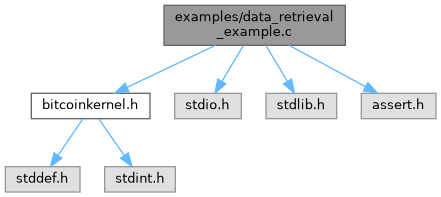
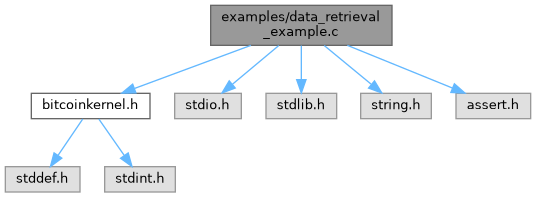
Update examples

diff --git a/docs/examples.html b/docs/examples.html
@@ -268,7 +268,7 @@ $(function() {
 <div class="ttc" id="abitcoinkernel_8h_html_ae863bcc97139e9ba3e406c7c0ea12d0f"><div class="ttname"><a href="bitcoinkernel_8h.html#ae863bcc97139e9ba3e406c7c0ea12d0f">btck_context_destroy</a></div><div class="ttdeci">BITCOINKERNEL_API void btck_context_destroy(btck_Context *context)</div></div>
 <div class="ttc" id="abitcoinkernel_8h_html_aea118037a38dcd6e6b26327fd26a2c63"><div class="ttname"><a href="bitcoinkernel_8h.html#aea118037a38dcd6e6b26327fd26a2c63">btck_context_options_create</a></div><div class="ttdeci">BITCOINKERNEL_API btck_ContextOptions * btck_context_options_create()</div></div>
 <div class="ttc" id="abitcoinkernel_8h_html_af9ba3636c27ad34471fbaaa9f3460e09"><div class="ttname"><a href="bitcoinkernel_8h.html#af9ba3636c27ad34471fbaaa9f3460e09">btck_chain_parameters_create</a></div><div class="ttdeci">BITCOINKERNEL_API btck_ChainParameters * btck_chain_parameters_create(const btck_ChainType chain_type)</div><div class="ttdoc">Creates a chain parameters struct with default parameters based on the passed in chain type.</div></div>
-<div class="ttc" id="adata__retrieval__example_8c_html_a31425dca2f328c215ff960feeff6a496"><div class="ttname"><a href="data__retrieval__example_8c.html#a31425dca2f328c215ff960feeff6a496">handle_error</a></div><div class="ttdeci">void handle_error(void *_, const char *msg, size_t msg_size)</div><div class="ttdef"><b>Definition</b> data_retrieval_example.c:7</div></div>
+<div class="ttc" id="adata__retrieval__example_8c_html_a31425dca2f328c215ff960feeff6a496"><div class="ttname"><a href="data__retrieval__example_8c.html#a31425dca2f328c215ff960feeff6a496">handle_error</a></div><div class="ttdeci">void handle_error(void *_, const char *msg, size_t msg_size)</div><div class="ttdef"><b>Definition</b> data_retrieval_example.c:8</div></div>
 <div class="ttc" id="astructbtck__NotificationInterfaceCallbacks_html"><div class="ttname"><a href="structbtck__NotificationInterfaceCallbacks.html">btck_NotificationInterfaceCallbacks</a></div><div class="ttdef"><b>Definition</b> bitcoinkernel.h:378</div></div>
 <div class="ttc" id="astructbtck__NotificationInterfaceCallbacks_html_aae99053f8b21c9bb8df041ed787d1ea1"><div class="ttname"><a href="structbtck__NotificationInterfaceCallbacks.html#aae99053f8b21c9bb8df041ed787d1ea1">btck_NotificationInterfaceCallbacks::user_data</a></div><div class="ttdeci">void * user_data</div><div class="ttdef"><b>Definition</b> bitcoinkernel.h:379</div></div>
 <div class="ttc" id="astructbtck__ValidationInterfaceCallbacks_html"><div class="ttname"><a href="structbtck__ValidationInterfaceCallbacks.html">btck_ValidationInterfaceCallbacks</a></div><div class="ttdef"><b>Definition</b> bitcoinkernel.h:353</div></div>
@@ -282,6 +282,7 @@ Data retrieval</h1>
 <div class="line"> </div>
 <div class="line"><span class="preprocessor">#include &lt;stdio.h&gt;</span></div>
 <div class="line"><span class="preprocessor">#include &lt;stdlib.h&gt;</span></div>
+<div class="line"><span class="preprocessor">#include &lt;string.h&gt;</span></div>
 <div class="line"><span class="preprocessor">#include &lt;assert.h&gt;</span></div>
 <div class="line"> </div>
 <div class="line"><span class="keywordtype">void</span> <a class="code hl_function" href="data__retrieval__example_8c.html#a31425dca2f328c215ff960feeff6a496">handle_error</a>(<span class="keywordtype">void</span>* _, <span class="keyword">const</span> <span class="keywordtype">char</span>* msg, <span class="keywordtype">size_t</span> msg_size)</div>
@@ -303,7 +304,7 @@ Data retrieval</h1>
 <div class="line">        .fatal_error = <a class="code hl_function" href="data__retrieval__example_8c.html#a31425dca2f328c215ff960feeff6a496">handle_error</a>,</div>
 <div class="line">    };</div>
 <div class="line">    <a class="code hl_function" href="bitcoinkernel_8h.html#ae6a8c07437009d394765d3cd587880ea">btck_context_options_set_notifications</a>(context_options, notifications);</div>
-<div class="line">    <a class="code hl_typedef" href="bitcoinkernel_8h.html#ad1cf967fc2c8309a14c38001730bf243">btck_ChainParameters</a>* chainparams = <a class="code hl_function" href="bitcoinkernel_8h.html#af9ba3636c27ad34471fbaaa9f3460e09">btck_chain_parameters_create</a>(<a class="code hl_define" href="bitcoinkernel_8h.html#a03a0d3dfcbf0e5b6aef95fee54183c4b">btck_ChainType_REGTEST</a>);</div>
+<div class="line">    <a class="code hl_typedef" href="bitcoinkernel_8h.html#ad1cf967fc2c8309a14c38001730bf243">btck_ChainParameters</a>* chainparams = <a class="code hl_function" href="bitcoinkernel_8h.html#af9ba3636c27ad34471fbaaa9f3460e09">btck_chain_parameters_create</a>(<a class="code hl_define" href="bitcoinkernel_8h.html#a29be3a81e723043b3b04f3890a6eeebe">btck_ChainType_MAINNET</a>);</div>
 <div class="line">    <a class="code hl_function" href="bitcoinkernel_8h.html#accd438f8862830538ec77dc58eaa28e8">btck_context_options_set_chainparams</a>(context_options, chainparams);</div>
 <div class="line">    <a class="code hl_function" href="bitcoinkernel_8h.html#ab95b862871af227934b2dc0388efffae">btck_chain_parameters_destroy</a>(chainparams);</div>
 <div class="line">    <a class="code hl_typedef" href="bitcoinkernel_8h.html#a1b24954e20d7713aaaebdda1b5b2dbf4">btck_Context</a>* context = <a class="code hl_function" href="bitcoinkernel_8h.html#a97d6527da3d584020177c8f6df8ad329">btck_context_create</a>(context_options);</div>
@@ -312,25 +313,44 @@ Data retrieval</h1>
 <div class="line"> </div>
 <div class="line">    <span class="keyword">const</span> <span class="keywordtype">char</span> data_dir[] = <span class="stringliteral">&quot;.bitcoin&quot;</span>;</div>
 <div class="line">    <span class="keyword">const</span> <span class="keywordtype">char</span> blocks_dir[] = <span class="stringliteral">&quot;.bitcoin/blocks&quot;</span>;</div>
-<div class="line">    <a class="code hl_typedef" href="bitcoinkernel_8h.html#ac484575e106b35011663c6816be16caa">btck_ChainstateManagerOptions</a>* chainman_options = <a class="code hl_function" href="bitcoinkernel_8h.html#a20cdf88d87dcf2547b81c2573ea02661">btck_chainstate_manager_options_create</a>(context, data_dir, <span class="keyword">sizeof</span>(data_dir) - 1, blocks_dir, <span class="keyword">sizeof</span>(blocks_dir));</div>
-<div class="line">    <span class="keywordflow">if</span> (chainman_options == NULL) <span class="keywordflow">return</span> 1;</div>
+<div class="line">    <a class="code hl_typedef" href="bitcoinkernel_8h.html#ac484575e106b35011663c6816be16caa">btck_ChainstateManagerOptions</a>* chainman_options = <a class="code hl_function" href="bitcoinkernel_8h.html#a20cdf88d87dcf2547b81c2573ea02661">btck_chainstate_manager_options_create</a>(context, data_dir, <span class="keyword">sizeof</span>(data_dir) - 1, blocks_dir, <span class="keyword">sizeof</span>(blocks_dir) - 1);</div>
+<div class="line">    <span class="keywordflow">if</span> (chainman_options == NULL) <span class="keywordflow">return</span> 2;</div>
 <div class="line">    <a class="code hl_typedef" href="bitcoinkernel_8h.html#ab928459172b8de15c461a67af14e867b">btck_ChainstateManager</a>* chainman = <a class="code hl_function" href="bitcoinkernel_8h.html#abbe0e61130ade31331c14306b2fd7480">btck_chainstate_manager_create</a>(chainman_options);</div>
-<div class="line">    <span class="keywordflow">if</span> (chainman == NULL) <span class="keywordflow">return</span> 1;</div>
+<div class="line">    <span class="keywordflow">if</span> (chainman == NULL) <span class="keywordflow">return</span> 3;</div>
 <div class="line">    <a class="code hl_function" href="bitcoinkernel_8h.html#a69a60cf85164961f9dae599425345bda">btck_chainstate_manager_options_destroy</a>(chainman_options);</div>
 <div class="line"> </div>
 <div class="line">    <span class="keyword">const</span> <a class="code hl_typedef" href="bitcoinkernel_8h.html#a6f7b73d5448fbbd0954d86ff663b4ae5">btck_Chain</a>* chain = <a class="code hl_function" href="bitcoinkernel_8h.html#acdb5a84770be2cf4938e1385dff96adc">btck_chainstate_manager_get_active_chain</a>(chainman);</div>
-<div class="line">    <span class="keyword">const</span> <a class="code hl_typedef" href="bitcoinkernel_8h.html#a5cf545db9309224dd5d89266e94eab85">btck_BlockTreeEntry</a>* entry = <a class="code hl_function" href="bitcoinkernel_8h.html#a7b18e727b517b67c5c52a041ec53883f">btck_chain_get_by_height</a>(chain, 1);</div>
+<div class="line">    <span class="keyword">const</span> <a class="code hl_typedef" href="bitcoinkernel_8h.html#a5cf545db9309224dd5d89266e94eab85">btck_BlockTreeEntry</a>* entry = <a class="code hl_function" href="bitcoinkernel_8h.html#a7b18e727b517b67c5c52a041ec53883f">btck_chain_get_by_height</a>(chain, 0);</div>
 <div class="line">    <a class="code hl_typedef" href="bitcoinkernel_8h.html#ad51859829bc2bbfa8858de4736f38cc0">btck_Block</a>* genesis = <a class="code hl_function" href="bitcoinkernel_8h.html#aaf200fb0f32214e8606cc81ff481f43a">btck_block_read</a>(chainman, entry);</div>
-<div class="line">    <span class="comment">// Now do something with this genesis block.</span></div>
 <div class="line"> </div>
+<div class="line">    <a class="code hl_typedef" href="bitcoinkernel_8h.html#a22d81144a2752a03ab05161af7bfd1f5">btck_BlockHash</a>* hash = <a class="code hl_function" href="bitcoinkernel_8h.html#a560fdbd007295000d0ad4d4655bfb675">btck_block_get_hash</a>(genesis);</div>
+<div class="line">    <span class="keywordtype">unsigned</span> <span class="keywordtype">char</span> raw_hash[32];</div>
+<div class="line">    <a class="code hl_function" href="bitcoinkernel_8h.html#a1729f61a18d841f902cfcbb668c97e9c">btck_block_hash_to_bytes</a>(hash, raw_hash);</div>
+<div class="line"> </div>
+<div class="line">    <span class="keywordtype">unsigned</span> <span class="keywordtype">char</span> expected_hash[32] = {</div>
+<div class="line">        0x6f, 0xe2, 0x8c, 0x0a, 0xb6, 0xf1, 0xb3, 0x72,</div>
+<div class="line">        0xc1, 0xa6, 0xa2, 0x46, 0xae, 0x63, 0xf7, 0x4f,</div>
+<div class="line">        0x93, 0x1e, 0x83, 0x65, 0xe1, 0x5a, 0x08, 0x9c,</div>
+<div class="line">        0x68, 0xd6, 0x19, 0x00, 0x00, 0x00, 0x00, 0x00</div>
+<div class="line">    };</div>
+<div class="line">    <span class="keywordflow">if</span> (memcmp(raw_hash, expected_hash, 32) != 0) {</div>
+<div class="line">        <span class="keywordflow">return</span> 4;</div>
+<div class="line">    }</div>
+<div class="line"> </div>
+<div class="line">    <a class="code hl_function" href="bitcoinkernel_8h.html#a761a5ed821555942199a07435d07827b">btck_block_hash_destroy</a>(hash);</div>
 <div class="line">    <a class="code hl_function" href="bitcoinkernel_8h.html#ac06db1bb87a26d0220e74ed885366f29">btck_block_destroy</a>(genesis);</div>
 <div class="line">    <a class="code hl_function" href="bitcoinkernel_8h.html#a264b62d70cafdcbd4c30a67cc85b0dbd">btck_chainstate_manager_destroy</a>(chainman);</div>
 <div class="line">    <a class="code hl_function" href="bitcoinkernel_8h.html#ae863bcc97139e9ba3e406c7c0ea12d0f">btck_context_destroy</a>(context);</div>
 <div class="line"> </div>
 <div class="line">    <span class="keywordflow">return</span> 0;</div>
 <div class="line">}</div>
+<div class="ttc" id="abitcoinkernel_8h_html_a1729f61a18d841f902cfcbb668c97e9c"><div class="ttname"><a href="bitcoinkernel_8h.html#a1729f61a18d841f902cfcbb668c97e9c">btck_block_hash_to_bytes</a></div><div class="ttdeci">BITCOINKERNEL_API void btck_block_hash_to_bytes(const btck_BlockHash *block_hash, unsigned char output[32]) 2)</div><div class="ttdoc">Serializes the block hash to bytes.</div></div>
+<div class="ttc" id="abitcoinkernel_8h_html_a22d81144a2752a03ab05161af7bfd1f5"><div class="ttname"><a href="bitcoinkernel_8h.html#a22d81144a2752a03ab05161af7bfd1f5">btck_BlockHash</a></div><div class="ttdeci">struct btck_BlockHash btck_BlockHash</div><div class="ttdef"><b>Definition</b> bitcoinkernel.h:258</div></div>
+<div class="ttc" id="abitcoinkernel_8h_html_a29be3a81e723043b3b04f3890a6eeebe"><div class="ttname"><a href="bitcoinkernel_8h.html#a29be3a81e723043b3b04f3890a6eeebe">btck_ChainType_MAINNET</a></div><div class="ttdeci">#define btck_ChainType_MAINNET</div><div class="ttdef"><b>Definition</b> bitcoinkernel.h:458</div></div>
+<div class="ttc" id="abitcoinkernel_8h_html_a560fdbd007295000d0ad4d4655bfb675"><div class="ttname"><a href="bitcoinkernel_8h.html#a560fdbd007295000d0ad4d4655bfb675">btck_block_get_hash</a></div><div class="ttdeci">BITCOINKERNEL_API btck_BlockHash * btck_block_get_hash(const btck_Block *block)</div><div class="ttdoc">Calculate and return the hash of a block.</div></div>
 <div class="ttc" id="abitcoinkernel_8h_html_a5cf545db9309224dd5d89266e94eab85"><div class="ttname"><a href="bitcoinkernel_8h.html#a5cf545db9309224dd5d89266e94eab85">btck_BlockTreeEntry</a></div><div class="ttdeci">struct btck_BlockTreeEntry btck_BlockTreeEntry</div><div class="ttdef"><b>Definition</b> bitcoinkernel.h:182</div></div>
 <div class="ttc" id="abitcoinkernel_8h_html_a6f7b73d5448fbbd0954d86ff663b4ae5"><div class="ttname"><a href="bitcoinkernel_8h.html#a6f7b73d5448fbbd0954d86ff663b4ae5">btck_Chain</a></div><div class="ttdeci">struct btck_Chain btck_Chain</div><div class="ttdef"><b>Definition</b> bitcoinkernel.h:221</div></div>
+<div class="ttc" id="abitcoinkernel_8h_html_a761a5ed821555942199a07435d07827b"><div class="ttname"><a href="bitcoinkernel_8h.html#a761a5ed821555942199a07435d07827b">btck_block_hash_destroy</a></div><div class="ttdeci">BITCOINKERNEL_API void btck_block_hash_destroy(btck_BlockHash *block_hash)</div></div>
 <div class="ttc" id="abitcoinkernel_8h_html_a7b18e727b517b67c5c52a041ec53883f"><div class="ttname"><a href="bitcoinkernel_8h.html#a7b18e727b517b67c5c52a041ec53883f">btck_chain_get_by_height</a></div><div class="ttdeci">BITCOINKERNEL_API const btck_BlockTreeEntry * btck_chain_get_by_height(const btck_Chain *chain, int block_height)</div><div class="ttdoc">Retrieve a block tree entry by its height in the currently active chain. Once retrieved there is no g...</div></div>
 <div class="ttc" id="abitcoinkernel_8h_html_aaf200fb0f32214e8606cc81ff481f43a"><div class="ttname"><a href="bitcoinkernel_8h.html#aaf200fb0f32214e8606cc81ff481f43a">btck_block_read</a></div><div class="ttdeci">BITCOINKERNEL_API btck_Block * btck_block_read(const btck_ChainstateManager *chainstate_manager, const btck_BlockTreeEntry *block_tree_entry) 2)</div><div class="ttdoc">Reads the block the passed in block tree entry points to from disk and returns it.</div></div>
 <div class="ttc" id="abitcoinkernel_8h_html_acdb5a84770be2cf4938e1385dff96adc"><div class="ttname"><a href="bitcoinkernel_8h.html#acdb5a84770be2cf4938e1385dff96adc">btck_chainstate_manager_get_active_chain</a></div><div class="ttdeci">BITCOINKERNEL_API int BITCOINKERNEL_API const btck_Chain * btck_chainstate_manager_get_active_chain(const btck_ChainstateManager *chainstate_manager)</div><div class="ttdoc">Returns the best known currently active chain. Its lifetime is dependent on the chainstate manager....</div></div>

diff --git a/docs/data__retrieval__example_8c.html b/docs/data__retrieval__example_8c.html
@@ -82,21 +82,24 @@ $(function() {
 <div class="textblock"><code>#include &quot;<a class="el" href="bitcoinkernel_8h_source.html">bitcoinkernel.h</a>&quot;</code><br />
 <code>#include &lt;stdio.h&gt;</code><br />
 <code>#include &lt;stdlib.h&gt;</code><br />
+<code>#include &lt;string.h&gt;</code><br />
 <code>#include &lt;assert.h&gt;</code><br />
 </div><div class="textblock"><div class="dynheader">
 Include dependency graph for data_retrieval_example.c:</div>
 <div class="dyncontent">
 <div class="center"><img src="data__retrieval__example_8c__incl.png" border="0" usemap="#aexamples_2data__retrieval__example_8c" alt=""/></div>
 <map name="aexamples_2data__retrieval__example_8c" id="aexamples_2data__retrieval__example_8c">
-<area shape="rect" title=" " alt="" coords="164,5,345,45"/>
+<area shape="rect" title=" " alt="" coords="211,5,392,45"/>
 <area shape="rect" href="bitcoinkernel_8h.html" title=" " alt="" coords="31,93,150,119"/>
-<area shape="poly" title=" " alt="" coords="217,48,128,90,126,85,214,43"/>
+<area shape="poly" title=" " alt="" coords="252,48,135,91,134,86,250,43"/>
 <area shape="rect" title=" " alt="" coords="175,93,241,119"/>
-<area shape="poly" title=" " alt="" coords="246,47,224,83,220,80,241,44"/>
+<area shape="poly" title=" " alt="" coords="280,48,234,86,231,82,277,44"/>
 <area shape="rect" title=" " alt="" coords="266,93,337,119"/>
-<area shape="poly" title=" " alt="" coords="268,44,290,80,285,83,264,47"/>
-<area shape="rect" title=" " alt="" coords="361,93,436,119"/>
-<area shape="poly" title=" " alt="" coords="290,43,367,84,364,89,288,48"/>
+<area shape="poly" title=" " alt="" coords="304,46,304,79,299,79,299,46"/>
+<area shape="rect" title=" " alt="" coords="361,93,431,119"/>
+<area shape="poly" title=" " alt="" coords="326,43,373,82,369,86,323,48"/>
+<area shape="rect" title=" " alt="" coords="456,93,531,119"/>
+<area shape="poly" title=" " alt="" coords="348,43,454,86,452,91,346,48"/>
 <area shape="rect" title=" " alt="" coords="5,167,80,192"/>
 <area shape="poly" title=" " alt="" coords="85,121,60,157,56,154,81,118"/>
 <area shape="rect" title=" " alt="" coords="105,167,175,192"/>
